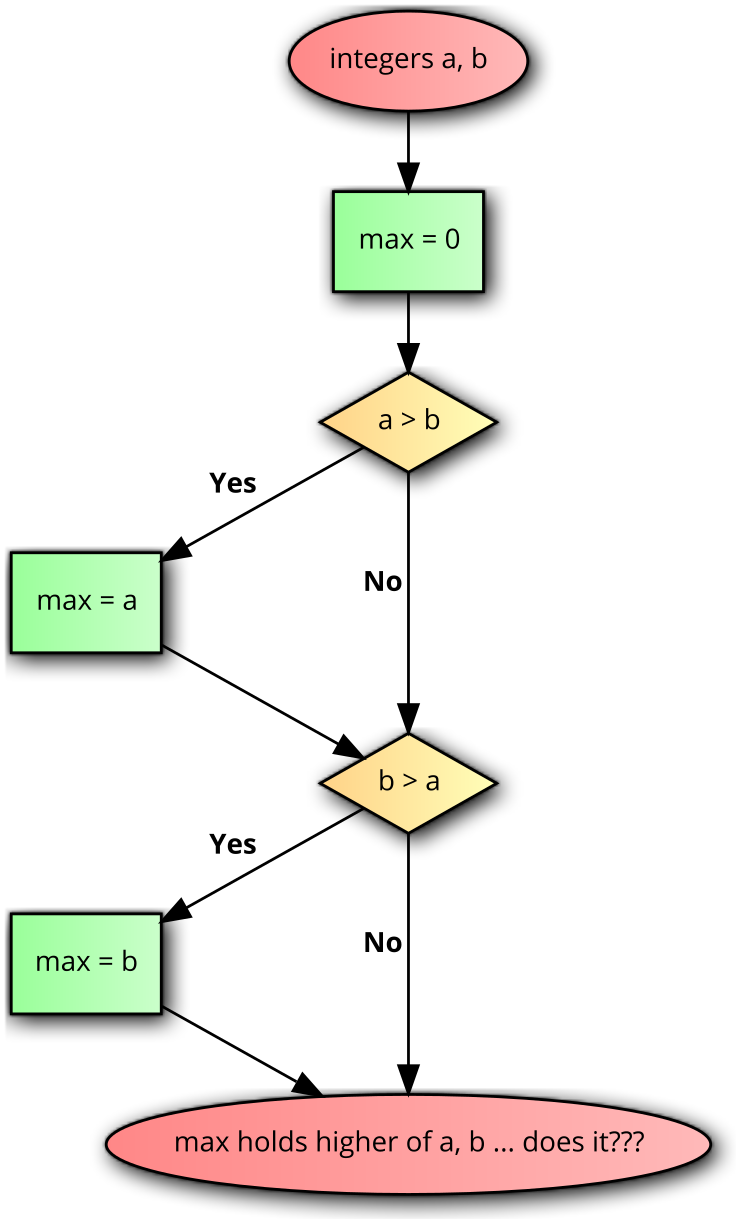
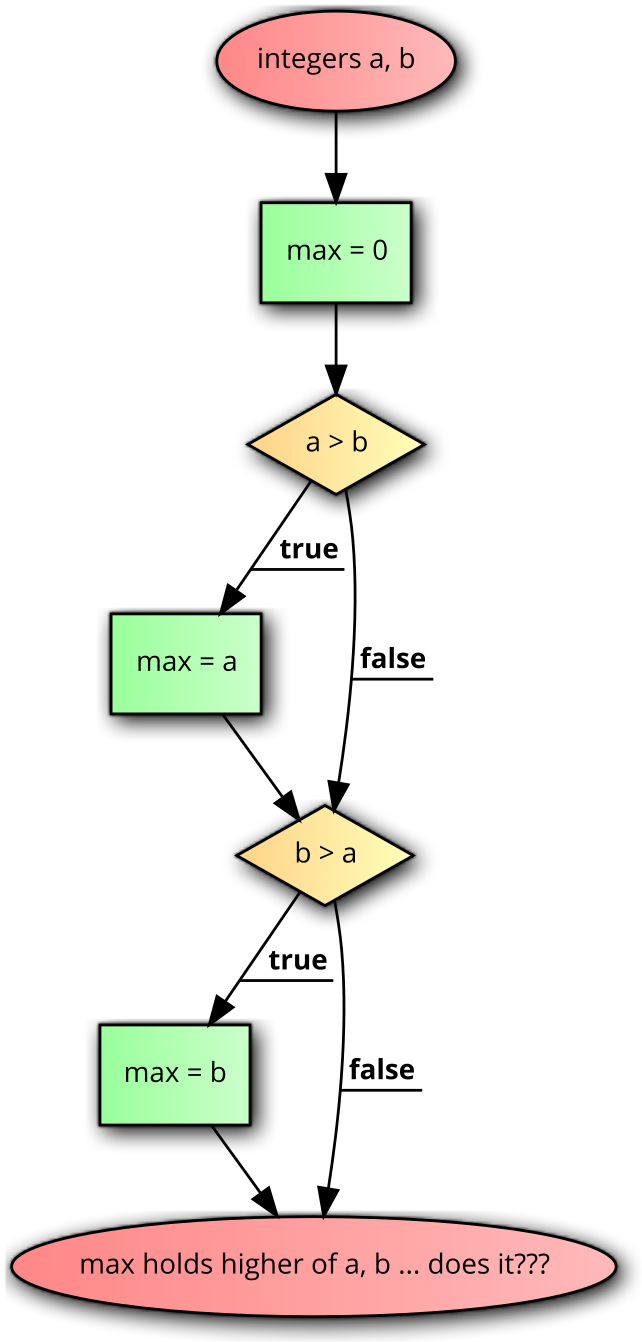
fixed conditions diagrams and typo in last scenario

Changed region(s): [[0.0, 0.0, 0.9969, 0.9975]]

diff --git a/1 - conditions/conditions.md b/1 - conditions/conditions.md
@@ -204,7 +204,7 @@ Given the number of hours and minutes in two variables, write a piece of code th
 
 ## SCENARIO 4
 
-Write a piece of code to address the same problem as in scenario 3, but an additional rule. Weekend (Sat, Sun) parking incurs a flat rate of $3 per 30 minutes. That is,
+Write a piece of code to address the same problem as in scenario 3, but an additional rule. Weekend (Sat, Sun) parking incurs a flat rate of $4 per 30 minutes. That is,
 
 - 0 to 29 minutes: $4
 - 30 to 59 minutes: $8

diff --git a/6 - problem solving/problemSolving.md b/6 - problem solving/problemSolving.md
@@ -26,3 +26,5 @@ https://www.hackerrank.com/challenges/beautiful-days-at-the-movies/problem
 
 https://www.hackerrank.com/challenges/equality-in-a-array/problem
 
+https://www.hackerrank.com/challenges/bigger-is-greater/problem
+(Hint: https://stackoverflow.com/questions/1622532/algorithm-to-find-next-greater-permutation-of-a-given-string#1622539)
